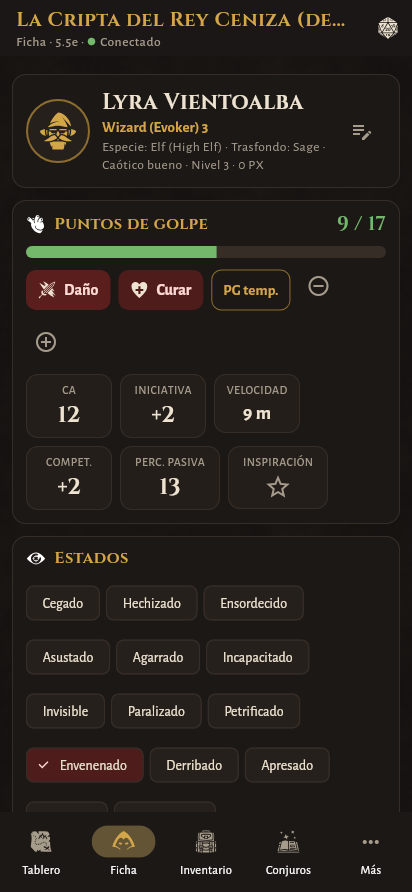
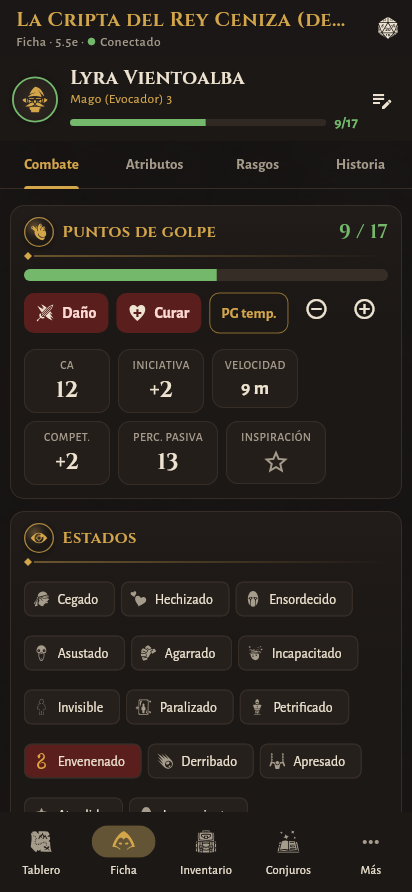
Documentación: interfaces de PC y móvil, temas, SRD en castellano y arte
- README: nuevas secciones de interfaz de PC/móvil, temas y arte, tablero
  (arrastrar, colocar, zoom) y por qué no se incluye el arte oficial de D&D y
  cómo usar imágenes propias.
- Capturas nuevas a 1680 px, collage de los siete temas y pantalla de inicio.
- Créditos de iconos actualizados y prueba de capturas en pantalla grande.

Claude-Session: https://claude.ai/code/session_01XwYCE4HuMyS6bi7YsQfrkJ

diff --git a/lib/core/i18n_en.dart b/lib/core/i18n_en.dart
@@ -867,8 +867,8 @@ const Map<String, String> englishStrings = {
   'Esta obra incluye material del **System Reference Document 5.1 ("SRD 5.1")** y del **System Reference Document 5.2 ("SRD 5.2")** de Wizards of the Coast LLC, disponibles en https://dnd.wizards.com/resources/systems-reference-document. Ambos se distribuyen bajo la licencia Creative Commons Attribution 4.0 International (https://creativecommons.org/licenses/by/4.0/legalcode).\n\nEl texto en castellano es la traducción oficial del SRD 5.1 y del SRD 5.2.1 (© Wizards of the Coast LLC, CC BY 4.0), recopilada en La Taberna de Eme (https://github.com/CarlosEmerito/latabernadeeme, CC BY 4.0).\n\nLos datos se han obtenido del proyecto 5e-bits/5e-srd-api (licencia MIT).\n\nDnD Tracker no está afiliada, respaldada ni patrocinada por Wizards of the Coast.':
       'This work includes material from the **System Reference Document 5.1 ("SRD 5.1")** and the **System Reference Document 5.2 ("SRD 5.2")** by Wizards of the Coast LLC, available at https://dnd.wizards.com/resources/systems-reference-document. Both are licensed under the Creative Commons Attribution 4.0 International License (https://creativecommons.org/licenses/by/4.0/legalcode).\n\nThe Spanish text is the official Spanish translation of SRD 5.1 and SRD 5.2.1 (© Wizards of the Coast LLC, CC BY 4.0), compiled by La Taberna de Eme (https://github.com/CarlosEmerito/latabernadeeme, CC BY 4.0).\n\nThe data comes from the 5e-bits/5e-srd-api project (MIT license).\n\nDnD Tracker is not affiliated with, endorsed or sponsored by Wizards of the Coast.',
   'Iconos': 'Icons',
-  'Iconos de **game-icons.net** creados por Lorc, Delapouite, Skoll, Sbed, Carl Olsen, Willdabeast, Faithtoken, Zeromancer, Kier Heyl y otros autores, bajo licencia Creative Commons Attribution 3.0 (https://creativecommons.org/licenses/by/3.0/). Lista completa en {0}.':
-      'Icons from **game-icons.net** by Lorc, Delapouite, Skoll, Sbed, Carl Olsen, Willdabeast, Faithtoken, Zeromancer, Kier Heyl and other authors, under the Creative Commons Attribution 3.0 license (https://creativecommons.org/licenses/by/3.0/). Full list in {0}.',
+  'Iconos de **game-icons.net** creados por Lorc, Delapouite, Skoll, Sbed, Carl Olsen, Willdabeast, Faithtoken, Zeromancer, Kier Heyl, Cathelineau, DarkZaitzev y otros autores, bajo licencia Creative Commons Attribution 3.0 (https://creativecommons.org/licenses/by/3.0/). Lista completa en {0}.':
+      'Icons from **game-icons.net** by Lorc, Delapouite, Skoll, Sbed, Carl Olsen, Willdabeast, Faithtoken, Zeromancer, Kier Heyl, Cathelineau, DarkZaitzev and other authors, under the Creative Commons Attribution 3.0 license (https://creativecommons.org/licenses/by/3.0/). Full list in {0}.',
   'Tipografías': 'Fonts',
   '**Cinzel** y **Cinzel Decorative** (Natanael Gama) y **Alegreya Sans** (Huerta Tipográfica), bajo la SIL Open Font License 1.1.':
       '**Cinzel** and **Cinzel Decorative** (Natanael Gama) and **Alegreya Sans** (Huerta Tipográfica), under the SIL Open Font License 1.1.',

diff --git a/test/ui_tour_test.dart b/test/ui_tour_test.dart
@@ -316,4 +316,38 @@ void main() {
       debugDisableShadows = true;
     });
   }
+
+  testWidgets('pantalla grande', (tester) async {
+    tester.view.physicalSize = const Size(1680, 1050);
+    tester.view.devicePixelRatio = 1;
+    addTearDown(tester.view.reset);
+    debugDisableShadows = _shotDir == null;
+    addTearDown(() => debugDisableShadows = true);
+    final host = demoHost();
+    await tester.pumpWidget(_app(storage, dm, CampaignShell(session: host)));
+    await _shot(tester, 'grande_dm_01_tablero');
+    await _goTo(tester, 'Combate');
+    await _shot(tester, 'grande_dm_02_combate');
+    await _goTo(tester, 'Grimorio');
+    await _settle(tester, ms: 800);
+    await _tap(tester, 'Aboleth');
+    await _shot(tester, 'grande_dm_03_grimorio');
+    await tester.pumpWidget(const SizedBox());
+    final player = DemoPlayerSession(host, 'demo-luis', 'Luis');
+    final luis = UserProfile(userId: 'demo-luis', displayName: 'Luis');
+    await tester.pumpWidget(_app(storage, luis, CampaignShell(session: player)));
+    await _settle(tester, ms: 800);
+    await _goTo(tester, 'Ficha');
+    await _settle(tester, ms: 800);
+    await _shot(tester, 'grande_jugador_01_ficha');
+    await _goTo(tester, 'Inventario');
+    await _tap(tester, 'Poción de curación');
+    await _shot(tester, 'grande_jugador_02_inventario');
+    await _goTo(tester, 'Conjuros');
+    await _tap(tester, 'Proyectil mágico');
+    await _shot(tester, 'grande_jugador_03_conjuros');
+    await tester.pumpWidget(const SizedBox());
+    host.dispose();
+    debugDisableShadows = true;
+  });
 }

diff --git a/lib/ui/screens/about_screen.dart b/lib/ui/screens/about_screen.dart
@@ -42,7 +42,7 @@ class AboutScreen extends StatelessWidget {
             icon: 'sparkles',
             child: RichDescription(
               tr(
-                'Iconos de **game-icons.net** creados por Lorc, Delapouite, Skoll, Sbed, Carl Olsen, Willdabeast, Faithtoken, Zeromancer, Kier Heyl y otros autores, bajo licencia Creative Commons Attribution 3.0 (https://creativecommons.org/licenses/by/3.0/). Lista completa en {0}.',
+                'Iconos de **game-icons.net** creados por Lorc, Delapouite, Skoll, Sbed, Carl Olsen, Willdabeast, Faithtoken, Zeromancer, Kier Heyl, Cathelineau, DarkZaitzev y otros autores, bajo licencia Creative Commons Attribution 3.0 (https://creativecommons.org/licenses/by/3.0/). Lista completa en {0}.',
                 ['assets/icons/CREDITS.md'],
               ),
             ),

diff --git a/README.md b/README.md
@@ -2,21 +2,26 @@
 
 Aplicación para llevar partidas de rol de quinta edición (**5e / 2014** y **5.5e / 2024**)
 muy personalizadas. Hecha con **Flutter + Dart** para **Windows, Linux y Android**
-(iOS más adelante), con tema oscuro y arte de libre uso. Disponible en **castellano e
-inglés** (se cambia en el perfil).
+(iOS más adelante), con **siete temas de color** y arte de libre uso. Disponible en
+**castellano e inglés**, con todo el contenido de reglas (criaturas, conjuros, objetos…)
+en la **traducción oficial al castellano del SRD**. Tiene una interfaz pensada para
+**PC** (barra lateral, paneles divididos, tablas, atajos de teclado) y otra para
+**móvil** (barra inferior, pestañas y hojas que suben desde abajo).
 
 Cualquier usuario puede ser **máster** en unas partidas y **jugador** en otras. El máster
 crea la partida y su dispositivo hace de anfitrión: los jugadores se unen con una
 invitación que se puede mandar por WhatsApp. No hace falta ningún servidor. Hasta
 **8 jugadores** por partida.
 
-![Tablero del máster](docs/screenshots/dm_tablero.png)
+![Tablero del máster en PC](docs/screenshots/dm_tablero.png)
 
-| Máster: resumen del grupo | Jugador: ficha |
+| Máster: combate con el bloque de quien tiene el turno | Máster: grimorio en castellano |
 |---|---|
-| ![Resumen del máster](docs/screenshots/dm_resumen.png) | ![Ficha del jugador](docs/screenshots/jugador_ficha.png) |
-| **Combate con dificultad del encuentro** | **Inventario con objetos ocultos por el máster** |
-| ![Combate](docs/screenshots/dm_combate.png) | ![Inventario](docs/screenshots/jugador_inventario.png) |
+| ![Combate](docs/screenshots/dm_combate.png) | ![Grimorio](docs/screenshots/dm_grimorio.png) |
+| **Jugador: ficha en columnas** | **Jugador: inventario en tabla con detalle** |
+| ![Ficha del jugador](docs/screenshots/jugador_ficha.png) | ![Inventario](docs/screenshots/jugador_inventario.png) |
+| **Jugador: conjuros con detalle** | **Pantalla de inicio** |
+| ![Conjuros](docs/screenshots/jugador_conjuros.png) | ![Inicio](docs/screenshots/inicio.png) |
 
 <p align="center">
   <img src="docs/screenshots/movil_tablero.png" width="240" alt="Tablero en móvil">
@@ -27,21 +32,50 @@ invitación que se puede mandar por WhatsApp. No hace falta ningún servidor. Ha
 
 ## Qué puede hacer
 
+### Interfaz de PC y de móvil
+- **PC** (ventana de 900 px o más): barra lateral con la partida, tu personaje y sus PG,
+  las secciones agrupadas y quién está conectado; cabecera de sección; panel derecho con
+  las **tiradas** y el **orden de turnos**. La ficha va en columnas como una hoja
+  impresa, el inventario es una tabla con panel de detalle, los conjuros y el grimorio
+  muestran el detalle al lado y en combate aparece el bloque de estadísticas de quien
+  tiene el turno. Atajos: **Ctrl+1…9** (secciones), **Ctrl+D** (dados), **Ctrl+.**
+  (panel derecho); en el tablero, flechas para mover la ficha elegida, **+/−** para el
+  zoom y **Esc** para cancelar.
+- **Móvil**: barra inferior con las cuatro secciones principales y «Más» en cuadrícula;
+  la ficha con cabecera fija de PG y pestañas (Combate, Atributos, Rasgos, Historia);
+  detalles en hojas que suben desde abajo.
+
+### Temas y arte
+- Siete temas: **Mazmorra**, **Pergamino** (claro), **Fuego infernal**, **Bosque
+  feérico**, **Abismo arcano**, **Escarcha** y **Ceniza**. Se eligen al empezar y en
+  *Perfil → Apariencia*.
+- 250 iconos de game-icons.net: cada criatura, objeto, conjuro (por escuela) y estado
+  del SRD tiene el suyo; retratos por clase y especie.
+- Dados en relieve, fichas del tablero tipo moneda, baldosas de piedra en los mapas en
+  blanco y una ilustración de cabecera, todo dibujado por código.
+- **Tus propias imágenes**: retrato del personaje, imagen de cada ficha del mapa y los
+  mapas. Ver [«¿Y el arte oficial?»](#y-el-arte-oficial).
+
+![Temas](docs/screenshots/temas.png)
+
 ### Tablero de juego
 La primera pantalla de la partida es el **tablero**, como una mesa real:
 - **Tiradas a la vista**: cada jugador tira sus propios dados y **todos ven el resultado**
   al momento, con una animación de dados rodando. Los dados se tiran en el dispositivo
   del máster (anfitrión), así nadie puede inventarse el resultado. Las tiradas del
   **máster son secretas**: los jugadores no las ven.
-- **Mapa con cuadrícula**: el máster sube una imagen (con o sin cuadrícula dibujada) y
-  ajusta la rejilla, o crea un tablero en blanco. Cada casilla mide **5 pies (1,5 m)** en
-  ambas ediciones; las diagonales cuentan 1 casilla o alternan 5/10 pies (variante),
-  según elija el máster.
+- **Mapa con cuadrícula**: el máster sube una imagen (con o sin cuadrícula dibujada,
+  hasta 4096 px) y ajusta la rejilla, o crea un tablero en blanco de baldosas. Cada
+  casilla mide **5 pies (1,5 m)** en ambas ediciones; las diagonales cuentan 1 casilla o
+  alternan 5/10 pies (variante), según elija el máster. El mapa se abre con **casillas
+  grandes** (64 px en PC, 52 en móvil) encuadrando las fichas, y tiene zoom.
 - **Fichas**: los personajes (con su retrato), criaturas del grimorio (con imagen PNG/JPG
   propia o icono) y marcadores (PNJ, cofres, trampas). Tamaños de 1×1 a 4×4.
-- **Movimiento**: cada jugador mueve sólo a su personaje; el máster mueve a todos. Al
-  moverse se indica la distancia recorrida, y hay una **regla** para medir alcances de
-  conjuros.
+- **Movimiento**: las fichas se **arrastran** (o se elige la ficha y se toca la casilla).
+  Cada jugador mueve sólo a su personaje; el máster mueve a todos y puede dejarlos **en
+  cualquier casilla**, también encima de otra ficha. Al añadir criaturas, marcadores o
+  al grupo, el máster **toca dónde va cada una**. Se indica la distancia recorrida y hay
+  una **regla** para medir alcances de conjuros.
 - **Vida y estados**: los PG y estados de los personajes los ve todo el grupo. Los PG de
   los enemigos **sólo los ve el máster**; para describirlos usa **etiquetas visibles**
   («Envenenado», «Debilitado», «Se le ve cansado», o las que escriba).
@@ -90,11 +124,31 @@ La primera pantalla de la partida es el **tablero**, como una mesa real:
 - **Dados**: bandeja de dados (`2d6+3`, ventaja `2d20kh1`, `4d6kh3`…) y tiradas desde la
   ficha (pruebas, salvaciones, ataques, iniciativa) con ventaja/desventaja. Todas
   aparecen en el tablero.
-- **Idioma**: castellano o inglés, se elige al empezar y se cambia en el perfil. Los
-  textos del SRD (criaturas, conjuros, objetos) están en inglés, como el original.
-- **Referencia**: estados, conjuros, objetos, reglas (SRD 5.1) y diferencias 5e/5.5e.
+- **Idioma**: castellano o inglés, se elige al empezar y se cambia en el perfil. En
+  castellano, criaturas, conjuros, objetos, estados, clases, especies, dotes y reglas
+  usan la **traducción oficial del SRD 5.1 y 5.2.1** (con medidas en metros). Los
+  conjuros y objetos ya guardados en una ficha se ven en el idioma de cada uno.
+- **Referencia**: estados, conjuros, objetos, reglas de las dos ediciones y diferencias
+  5e/5.5e. Las búsquedas no distinguen tildes («dragon» encuentra «Dragón»).
 - Unidades **métricas** (como los manuales en castellano) o imperiales.
 - **Partida de ejemplo** para probar todo sin jugadores (botón en la pantalla de inicio).
+
+## ¿Y el arte oficial?
+
+Las ilustraciones de los manuales de D&D (las de criaturas, portadas, mapas…) son obra de
+sus ilustradores y de Wizards of the Coast, y **no tienen licencia libre**: el SRD que
+usa la app es sólo texto. Incluirlas en la app sería distribuirlas sin permiso, así que
+no se incluyen.
+
+Lo que sí puedes hacer es usar **tus propias imágenes** (por ejemplo, de libros que
+tengas o de packs de fichas que hayas comprado, para uso en tu mesa):
+- **Retrato del personaje**: *Editar ficha → Retrato → Usar una imagen*. Se ve en la
+  ficha, en la barra lateral y en su ficha del tablero.
+- **Fichas del mapa**: elige una ficha → *Imagen*. Sirve para criaturas, PNJ y objetos.
+- **Mapas**: *Tablero → Mapas → Nuevo mapa desde imagen*.
+
+Las imágenes se guardan en el dispositivo del máster y se envían a los jugadores de la
+partida; no se publican en ningún sitio.
 
 ## Red: cómo se conectan (y datos móviles)
 
@@ -146,8 +200,9 @@ flutter test
 
 Incluyen el motor de reglas, permisos y filtrado de datos ocultos, artesanía, una partida
 real máster ↔ jugador por WebSocket (directa y a través del relay, con tiradas y
-tablero), que todos los textos tengan traducción al inglés y un recorrido por todas las
-pantallas en los dos idiomas, en tamaño escritorio y móvil. Para guardar capturas del recorrido:
+tablero), que todos los textos tengan traducción al inglés, que todo el SRD esté en
+castellano, arrastrar y colocar fichas en el tablero y un recorrido por todas las
+pantallas en los dos idiomas, en tamaño escritorio y móvil, y con cada tema. Para guardar capturas del recorrido:
 
 ```bash
 SCREENSHOT_DIR=/tmp/capturas flutter test test/ui_tour_test.dart
@@ -157,7 +212,7 @@ SCREENSHOT_DIR=/tmp/capturas flutter test test/ui_tour_test.dart
 
 ```
 lib/
-  core/      utilidades (dados, ids, JSON, traducciones es/en)
+  core/      utilidades (dados, ids, JSON, búsqueda sin tildes, traducciones es/en)
   domain/    modelo: personaje, objeto, receta, monstruo, partida, chat, tiradas, tablero
   engine/    motor de la partida: comandos, permisos, vistas filtradas, artesanía
   net/       protocolo, servidor del anfitrión, relay, invitaciones, descubrimiento LAN
@@ -180,13 +235,17 @@ que puede ver.
 - Código: del autor del repositorio.
 - Contenido de reglas: **SRD 5.1** y **SRD 5.2** de Wizards of the Coast, bajo
   [CC-BY-4.0](https://creativecommons.org/licenses/by/4.0/legalcode), vía
-  [5e-bits/5e-srd-api](https://github.com/5e-bits/5e-srd-api) (MIT). Ver
-  [assets/srd/LICENSE.md](assets/srd/LICENSE.md).
+  [5e-bits/5e-srd-api](https://github.com/5e-bits/5e-srd-api) (MIT). La traducción oficial
+  al castellano (SRD 5.1 y 5.2.1, CC BY 4.0) procede de
+  [La Taberna de Eme](https://github.com/CarlosEmerito/latabernadeeme) (CC BY 4.0) y se
+  genera con `tool/build_srd_es.py`. Ver [assets/srd/LICENSE.md](assets/srd/LICENSE.md).
 - Iconos: [game-icons.net](https://game-icons.net) bajo
   [CC BY 3.0](https://creativecommons.org/licenses/by/3.0/). Autores en
   [assets/icons/CREDITS.md](assets/icons/CREDITS.md).
 - Tipografías: Cinzel, Cinzel Decorative y Alegreya Sans, bajo SIL Open Font License.
-- Textura de fondo e icono de la app: generados con los scripts de `tool/`.
+- Textura de fondo e icono de la app: generados con los scripts de `tool/`. La
+  ilustración de inicio, las baldosas de los mapas, los dados y las fichas se dibujan
+  por código (obra propia).
 
 DnD Tracker es un proyecto no oficial y no está afiliado a Wizards of the Coast.
 
@@ -198,4 +257,4 @@ DnD Tracker es un proyecto no oficial y no está afiliado a Wizards of the Coast
 - Mantener al máster de Android como anfitrión en segundo plano (servicio en primer plano).
 - Niebla de guerra y líneas de visión en el tablero.
 - Plantillas de área (cono, esfera, línea) para conjuros.
-- Traducción al castellano de los textos del SRD.
+- Fondos ilustrados para cada tema.
